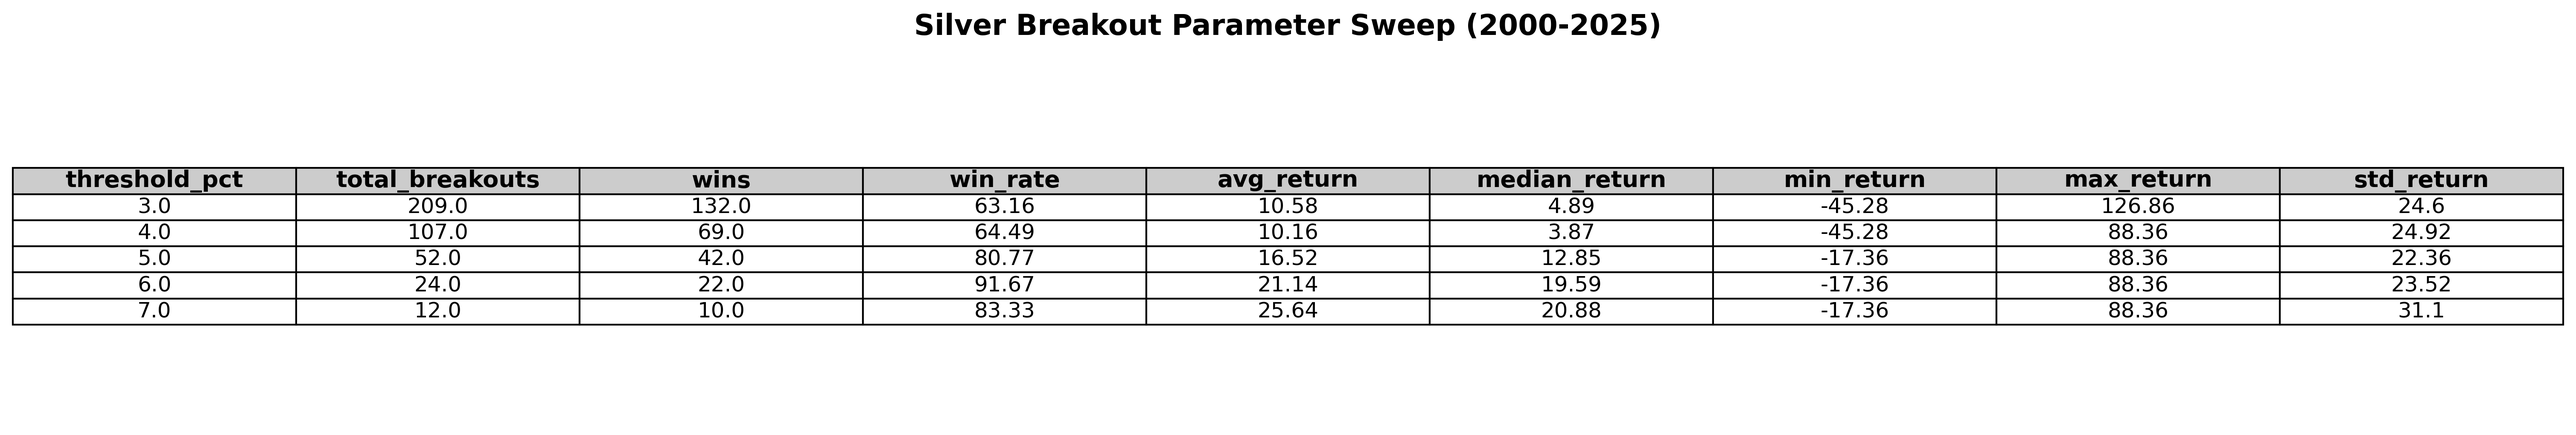
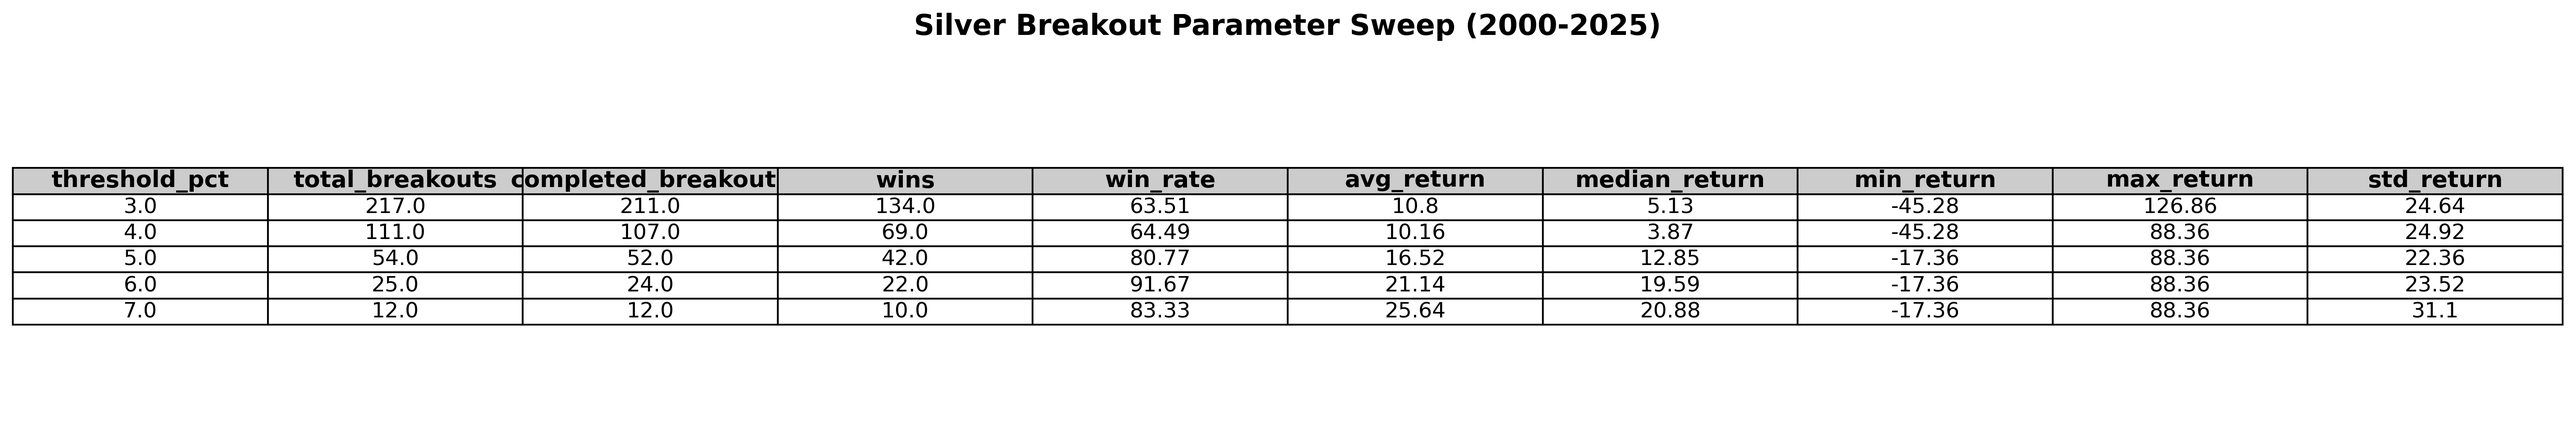
Fix dtype errors in win rate and parameter sweep analysis
- Fixed plot_win_rate_by_year to properly handle datetime conversion and boolean-to-numeric conversion for aggregation
- Fixed generate_parameter_sweep_table to filter out pending breakouts before calculating statistics
- Updated analysis to handle None values in is_winner and future_return columns
- All charts and analysis now generate successfully

diff --git a/silver_breakout_analysis.py b/silver_breakout_analysis.py
@@ -289,9 +289,16 @@ class SilverBreakoutAnalyzer:
             return
         
         # Group by year
+        # Ensure breakout_date is datetime and extract year
+        if not pd.api.types.is_datetime64_any_dtype(completed_breakouts['breakout_date']):
+            completed_breakouts['breakout_date'] = pd.to_datetime(completed_breakouts['breakout_date'])
         completed_breakouts['year'] = completed_breakouts['breakout_date'].dt.year
+        
+        # Convert is_winner to boolean/numeric for aggregation
+        completed_breakouts['is_winner_numeric'] = completed_breakouts['is_winner'].astype(int)
+        
         yearly_stats = completed_breakouts.groupby('year').agg({
-            'is_winner': ['count', 'sum']
+            'is_winner_numeric': ['count', 'sum']
         }).round(2)
         
         yearly_stats.columns = ['total_breakouts', 'wins']
@@ -371,17 +378,35 @@ class SilverBreakoutAnalyzer:
             )
             
             if breakouts is not None and len(breakouts) > 0:
-                win_rate = (breakouts['is_winner'].sum() / len(breakouts)) * 100
-                avg_return = breakouts['future_return'].mean()
-                median_return = breakouts['future_return'].median()
-                min_return = breakouts['future_return'].min()
-                max_return = breakouts['future_return'].max()
-                std_return = breakouts['future_return'].std()
+                # Only use completed breakouts for statistics
+                completed = breakouts[breakouts['status'] == 'completed'].copy()
+                if len(completed) > 0:
+                    # Convert is_winner to numeric for calculation
+                    completed['is_winner_numeric'] = completed['is_winner'].astype(int)
+                    win_rate = (completed['is_winner_numeric'].sum() / len(completed)) * 100
+                    avg_return = completed['future_return'].mean()
+                    median_return = completed['future_return'].median()
+                    min_return = completed['future_return'].min()
+                    max_return = completed['future_return'].max()
+                    std_return = completed['future_return'].std()
+                    completed_count = len(completed)
+                    wins_count = int(completed['is_winner_numeric'].sum())
+                else:
+                    # No completed breakouts yet
+                    win_rate = 0.0
+                    avg_return = 0.0
+                    median_return = 0.0
+                    min_return = 0.0
+                    max_return = 0.0
+                    std_return = 0.0
+                    completed_count = 0
+                    wins_count = 0
                 
                 results.append({
                     'threshold_pct': threshold,
                     'total_breakouts': len(breakouts),
-                    'wins': breakouts['is_winner'].sum(),
+                    'completed_breakouts': completed_count,
+                    'wins': wins_count,
                     'win_rate': win_rate,
                     'avg_return': avg_return,
                     'median_return': median_return,
